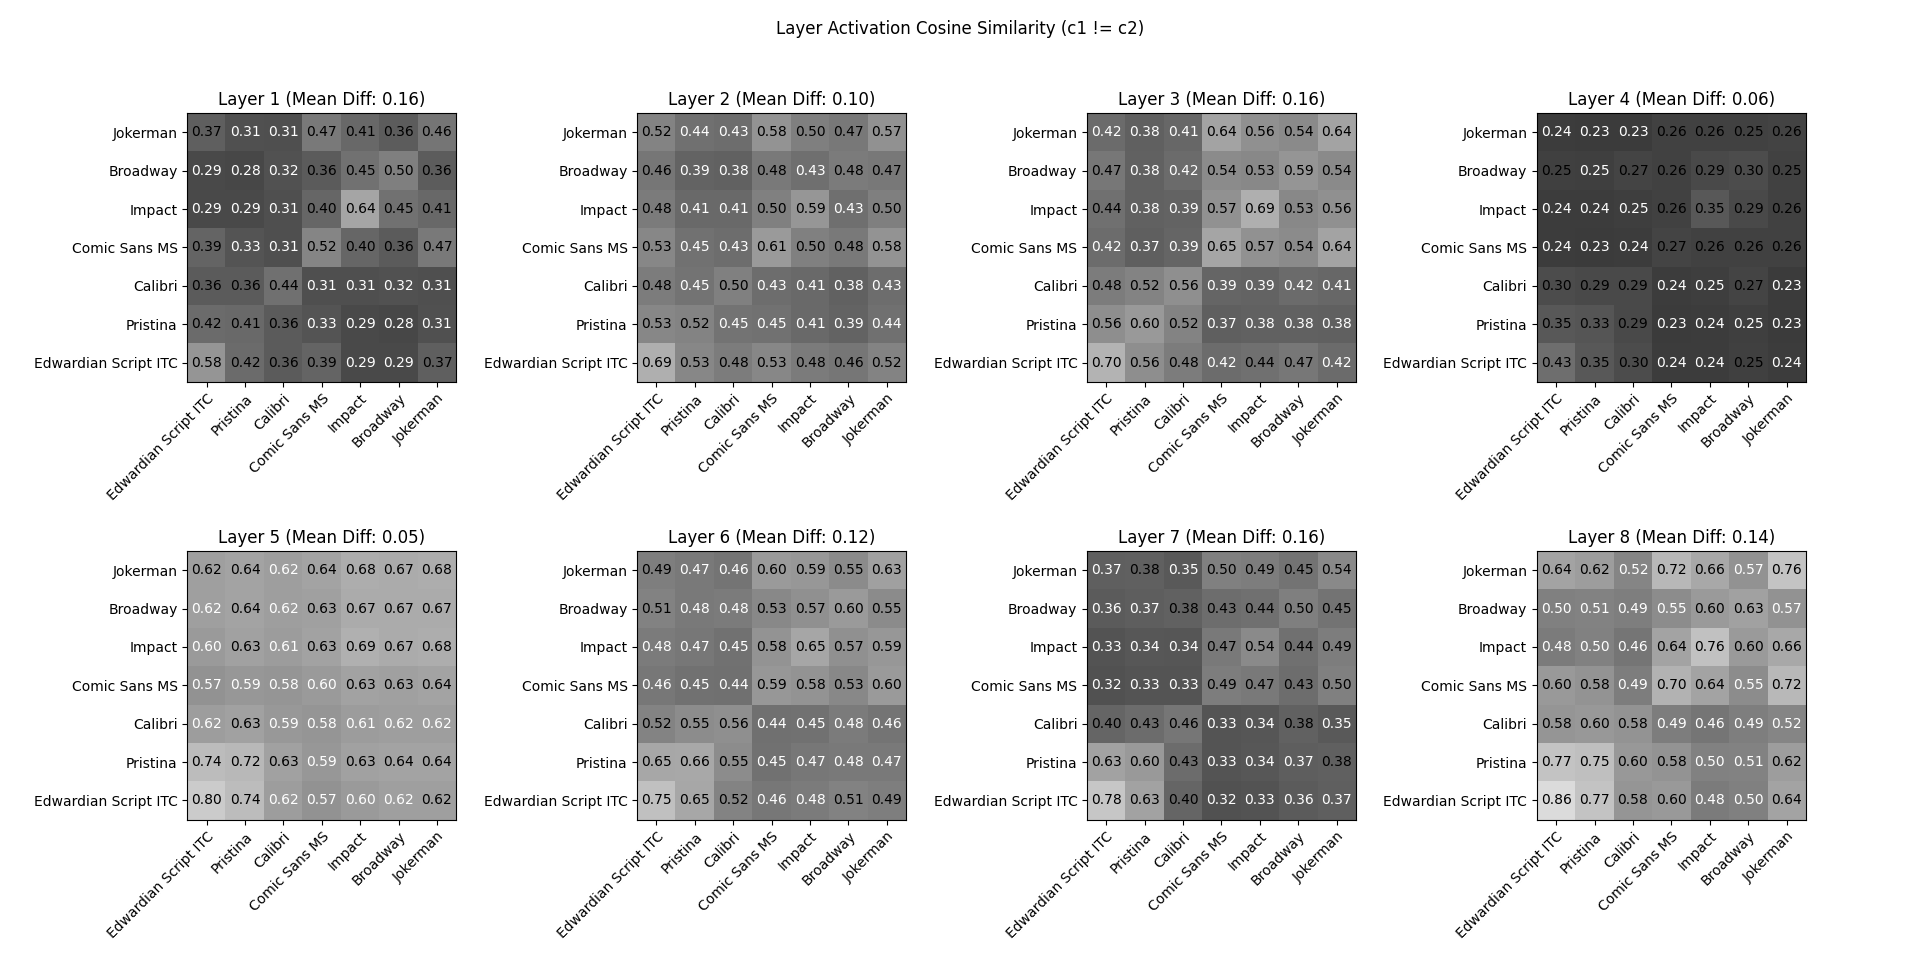
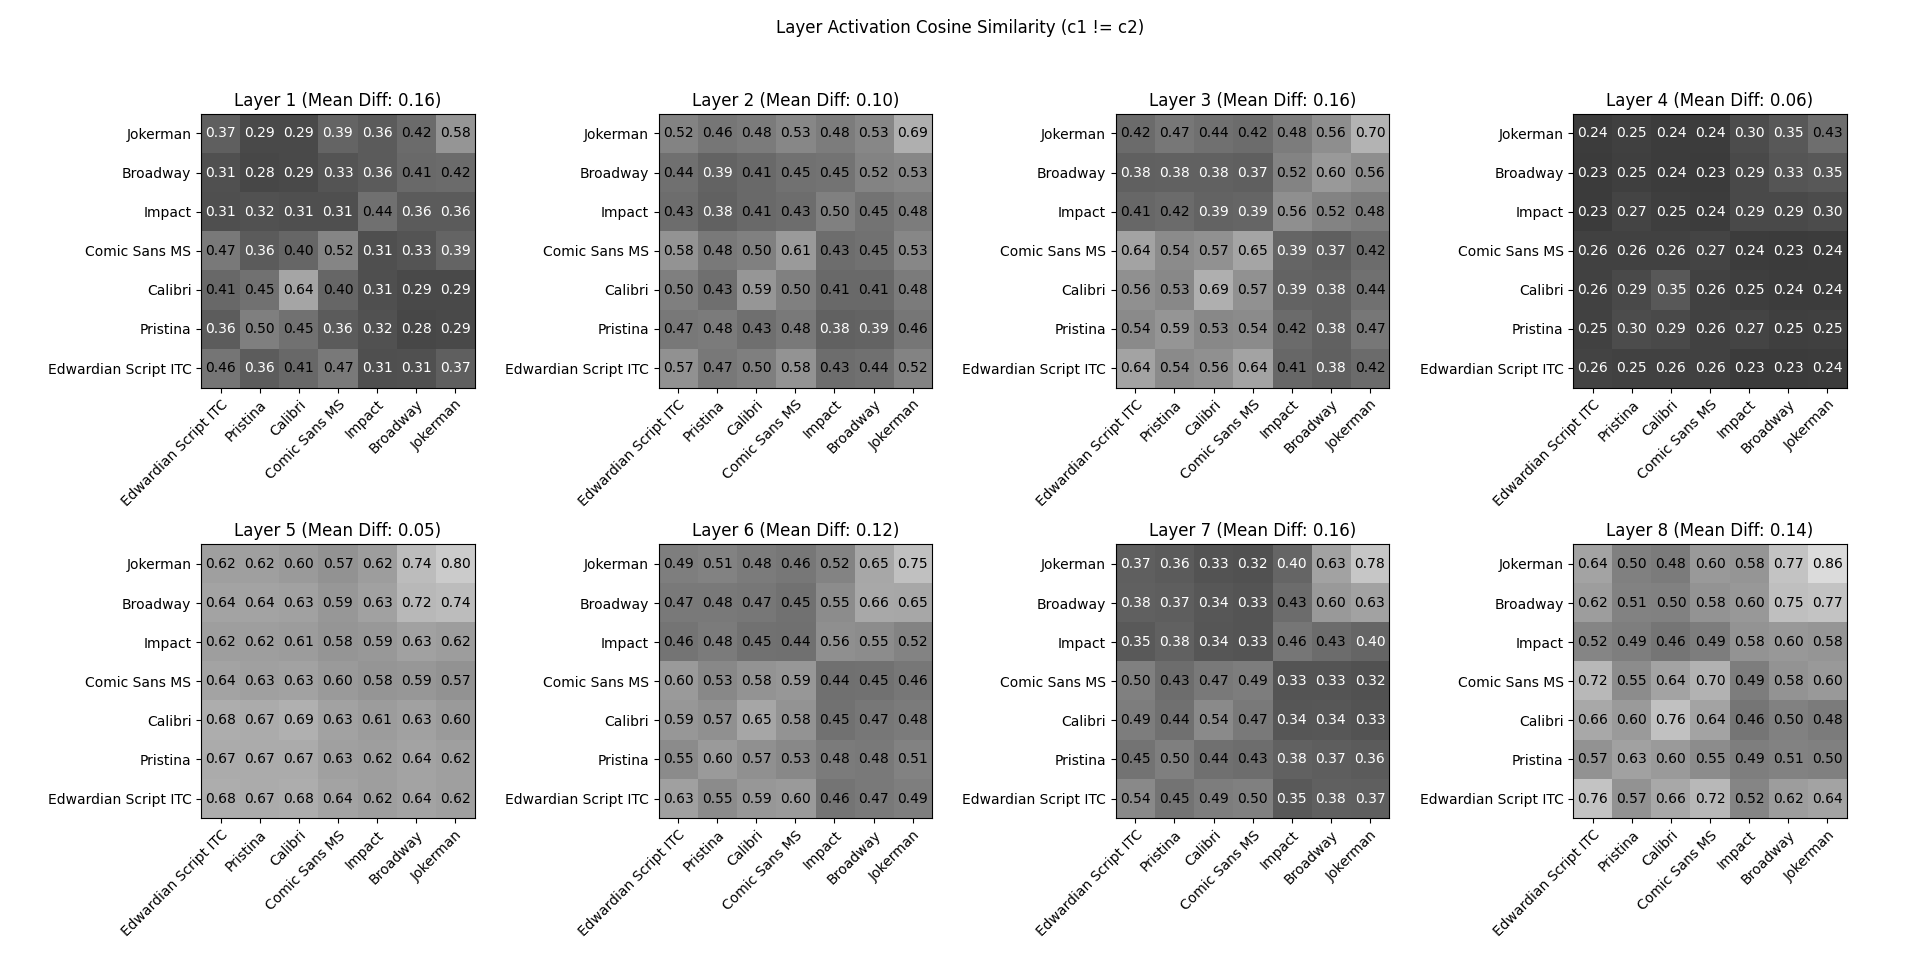
Adjusting the clustering to force more inclusion

diff --git a/style/testing.py b/style/testing.py
@@ -16,6 +16,7 @@ from scipy.stats import pearsonr
 from sklearn.metrics import roc_auc_score
 from sklearn.decomposition import PCA
 from sklearn.cluster import DBSCAN, OPTICS
+from sklearn.preprocessing import normalize
 
 import matplotlib.pyplot as plt
 from matplotlib.offsetbox import OffsetImage, AnnotationBbox
@@ -68,9 +69,12 @@ def diff(matrix):
 
 # TODO: Refactor the mess
 if __name__ == "__main__":
-    model, config = UNet.load(os.path.join("checkpoints", "latest"))
+    # Inconsistencies between VSCode and Pycharm
+    cwd = ".." if os.getcwd().endswith("style") else ""
 
-    config.dataset.directory = os.path.join("data")
+    model, config = UNet.load(os.path.join(cwd, "checkpoints", "latest"))
+
+    config.dataset.directory = os.path.join(cwd, "windows")
     dataset = FontData(config.dataset, training=False)
 
     layers = config.model.layers * 2
@@ -101,7 +105,7 @@ if __name__ == "__main__":
         with torch.no_grad():
             inputs = torch.tensor(inputs, dtype=torch.float32).squeeze().unsqueeze(-1)
             output, classification = model(inputs)
-        references[font] = output, targets
+        references[font] = output.cpu(), targets
 
     for font in namespaces:
         series = {}
@@ -124,7 +128,7 @@ if __name__ == "__main__":
             referenceDF = pd.DataFrame({"letter": referenceOrder,
                                         "refTarget": listify(refTarget), "refPrediction": listify(refPred)})
             styleDF = pd.DataFrame({"letter": styleOrder,
-                                    "styleTarget": listify(targets), "stylePrediction": listify(output)})
+                                    "styleTarget": listify(targets), "stylePrediction": listify(output.cpu())})
 
             joined = pd.merge(styleDF, referenceDF, how="inner", on="letter")
 
@@ -194,7 +198,7 @@ if __name__ == "__main__":
         ax = plt.subplot(height, width, layer + 1)
         ax.set_title(f"Layer {layer + 1} (Mean Diff: {diff(correlation):.2f})")
 
-        correlation = np.flip(correlation, axis=0)
+        correlation = np.flip(correlation, axis=1)
         ax.imshow(correlation, cmap="binary_r", vmin=0, vmax=1)
 
         ax.set_xticks(range(len(comparativeFonts)), comparativeFonts, rotation=45, ha="right", rotation_mode="anchor")
@@ -203,7 +207,7 @@ if __name__ == "__main__":
         for i in range(correlation.shape[0]):
             for j in range(correlation.shape[0]):
                 value = correlation[i, j]
-                color = "k" if (value > np.percentile(correlation, 40)) else "w"
+                color = "k" if (value > 0.4) else "w"
                 text = ax.text(j, i, f"{value:.2f}", ha="center", va="center", color=color)
 
     plt.suptitle("Layer Activation Cosine Similarity (c1 != c2)")
@@ -221,7 +225,7 @@ if __name__ == "__main__":
         ax = plt.subplot(height, width, layer + 1)
         ax.set_title(f"Layer {layer + 1} (Mean Diff: {diff(correlation):.2f})")
 
-        correlation = np.flip(correlation, axis=0)
+        correlation = np.flip(correlation, axis=1)
         ax.imshow(correlation, cmap="binary_r", vmin=0, vmax=1)
 
         ax.set_xticks(range(len(comparativeFonts)), comparativeFonts, rotation=45, ha="right", rotation_mode="anchor")
@@ -237,7 +241,6 @@ if __name__ == "__main__":
     plt.show()
 
     # Only latin characters, prevents character set skew
-    testCharacters = ["b"]
     mask = np.isin(dataset.letters, np.array(testCharacters))
     pairs = dataset.pairs[mask]
     names = dataset.names[mask]
@@ -336,17 +339,16 @@ if __name__ == "__main__":
         print(f"Running clustering on {data.shape[0]} samples, {data.shape[-1]} dimensions for layer {layer + 1} (Originally {shape})")
 
         # transformed = components.fit_transform(data)
-        clustering = OPTICS()
+        clustering = OPTICS(min_samples=2, cluster_method='xi', xi=0.01, min_cluster_size=2, metric="cosine")
+        # clustering = OPTICS(min_samples=2, cluster_method='dbscan')
 
-        clusters = clustering.fit_predict(data)
+        clusters = clustering.fit_predict(normalize(data))
         names = np.array(list(allActivations[layer].keys()))
-        
-        for clusterID in np.unique(clusters):
-            clusterNames = names[clusters == clusterID]
-            clusterImages = [fontDisplayImages[name] for name in clusterNames]
 
-            # TODO: Medoids and outliers? This is essentially random already, could be fine
-            samples = clusterImages[:20]
+        for clusterID in np.unique(clusters):
+            print(clusterID, np.sum(clusters == clusterID))
+            clusterNames = names[clusters == clusterID]
+            samples = [fontDisplayImages[name] for name in clusterNames]
 
             displayHeight = sum([image.size[1] for image in samples]) + (16 * (len(samples) + 1))
             displayWidth = max([image.size[0] for image in samples]) + (32 * 2)
@@ -358,7 +360,7 @@ if __name__ == "__main__":
                 canvas.paste(samples[i], (32, total))
                 total += samples[i].size[1] + 16
 
-            folderPath = os.path.join("style", "results", "clustering", f"Layer {layer + 1}")
+            folderPath = os.path.join(cwd, "style", "results", "clustering", f"Layer {layer + 1}")
             if not os.path.exists(folderPath):
                 os.makedirs(folderPath)
 
